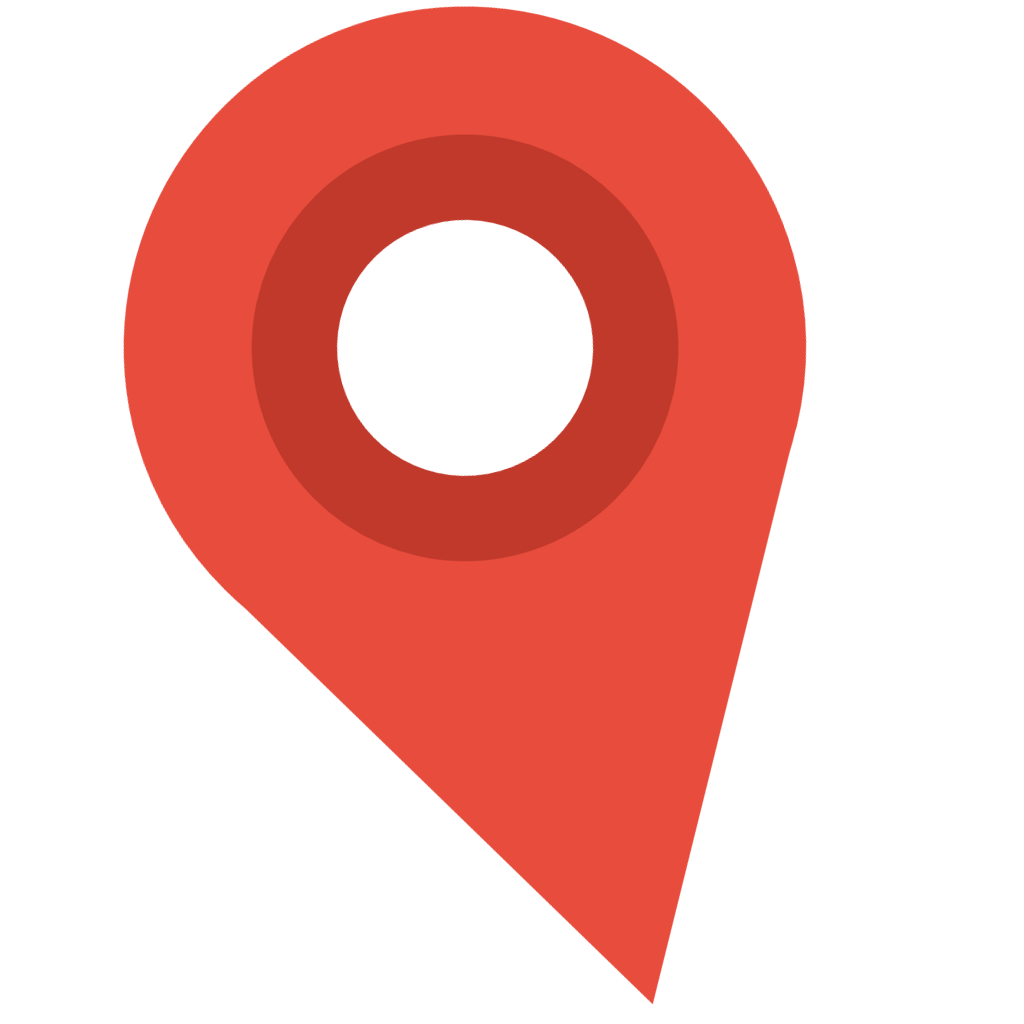
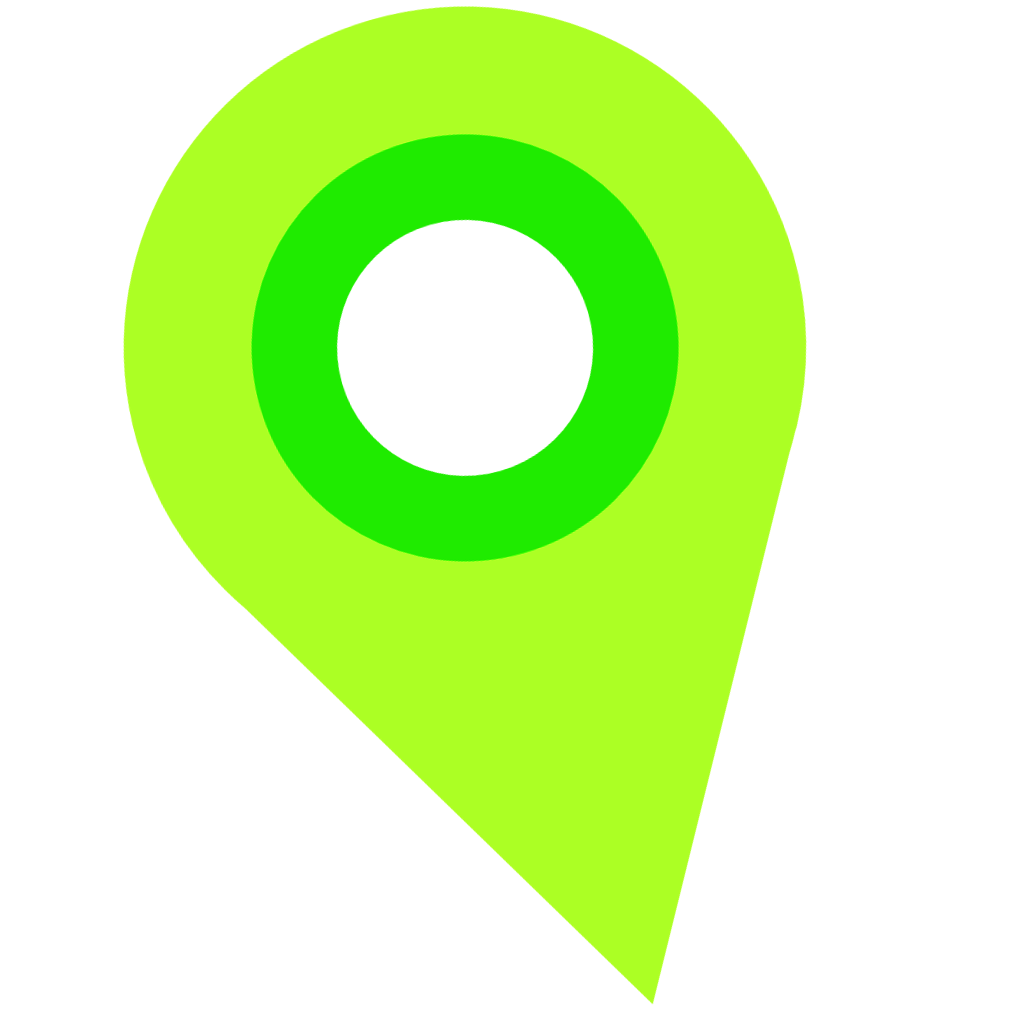
Add not full lot indicator on map

diff --git a/src/components/campaign/CampaignInfo.vue b/src/components/campaign/CampaignInfo.vue
@@ -1,7 +1,7 @@
 <template>
    <div>
      <h1>Campaign : {{ campaign.id_campaign }}-{{ campaign.id_malette }} -->  {{ campaign.name }}</h1>
-     <p>Assembled : {{ assemledPourcent }}% Geoloc : {{ geolocPourcent }}% <span v-on:click='calculateCompletPourcent()'>Complet : {{ completPourcent }}%</span></p>
+     <p>Assembled : {{ assemledPourcent }}% Geoloc : {{ geolocPourcent }}% <span v-on:click='calculateCompletPourcent()'>Complet : {{ completPourcent }}</span></p>
    </div>
 </template>
 
@@ -16,7 +16,8 @@ export default {
     return {
       pictureNumber: [],
       canUse: false,
-      lotPicture: []
+      completLot: null,
+      minPic: 6
     }
   },
 
@@ -51,29 +52,29 @@ export default {
       return value
     },
     completPourcent: function () {
-      if (this.lotPicture.length >= this.lots.length) {
-        var completLot = 0
-        for (var i in this.lotPicture) {
-          i = this.lotPicture[i]
-          if (i >= 6) {
-            completLot++
-          }
-        }
-        return Math.round(completLot / this.lots.length * 100)
+      if (this.completLot == null) {
+        return 'Click to compute'
       } else {
-        return 'Click to calculate'
+        return Math.round(this.completLot / this.lots.length * 100) + '%'
       }
     }
   },
   methods: {
     calculateCompletPourcent: function () {
-      this.lotPicture = []
+      this.completLot = 0
       for (var i in this.lots) {
-        i = this.lots[i]
-        ApiManager.getLotPicturesPath(i.pictures_path).then(answer => {
-          this.lotPicture.push(answer.data.length)
-        })
+        this.isComplet(this.lots[i])
       }
+    },
+    isComplet: function (lot) {
+      ApiManager.getLotPicturesPath(lot.pictures_path).then(answer => {
+        if (answer.data.length >= this.minPic) {
+          this.completLot++
+        } else {
+          this.$parent.$refs.map.setIncomplet(lot.id_lot)
+          this.$parent.$refs.lotList.setIncomplet(lot.id_lot)
+        }
+      })
     }
   }
 }

diff --git a/src/components/campaign/LotList.vue b/src/components/campaign/LotList.vue
@@ -2,8 +2,10 @@
    <div>
      <h2>Lot list :</h2>
      <ul>
-       <li v-for="lot in lots" v-bind:class="classToUse(lot)" v-bind:key="lot.id_lot">{{lot.id_lot}}
-         <router-link v-if="lot.tile.id_tile !== null" :to="'/viewer/' + lot.tile.id_tile + '/' + lot.id_malette">See</router-link></li>
+       <li v-for="lot in lots" v-bind:class="classToUse(lot)" v-bind:ref="lot.id_lot" v-bind:key="lot.id_lot">{{lot.id_lot}}
+         <router-link v-if="lot.tile.id_tile !== null" :to="'/viewer/' + lot.tile.id_tile + '/' + lot.id_malette">See pano</router-link>
+         <span v-on:click="clicked(lot)">See</span>
+       </li>
      </ul>
    </div>
 </template>
@@ -21,6 +23,12 @@ export default {
         return 'bad'
       }
       return 'good'
+    },
+    setIncomplet: function (id) {
+      this.$refs[id][0].className = 'uncomplet'
+    },
+    clicked: function (lot) {
+      this.$parent.$refs.lotInfo.setLot(lot)
     }
   }
 }
@@ -28,9 +36,12 @@ export default {
 
 <style>
 .bad{
-  background-color: red;
+  background-color: orange;
 }
 .good{
   background-color: green;
+}
+.uncomplet{
+  background-color: red;
 }
 </style>

diff --git a/src/components/campaign/MapCampaign.vue b/src/components/campaign/MapCampaign.vue
@@ -2,7 +2,7 @@
   <div>
     <l-map ref='map' :zoom='zoom' :center='center'>
       <l-tile-layer :url='url' :attribution='attribution'></l-tile-layer>
-      <l-marker v-for='lot in lots' :key='lot.id_lot' :lat-lng='genCord(lot.sensors)' :icon='icon(lot)' v-on:click='clicked(lot)'></l-marker>
+      <l-marker v-for='lot in lots' :ref="lot.id_lot" :key='lot.id_lot' :lat-lng='genCord(lot.sensors)' :icon='icon(lot)' v-on:click='clicked(lot)'></l-marker>
     </l-map>
   </div>
 </template>
@@ -23,7 +23,7 @@ export default {
   },
   data () {
     return {
-      zoom: 13,
+      zoom: 19,
       url: 'http://{s}.tile.osm.org/{z}/{x}/{y}.png',
       attribution: '&copy; <a href="http://osm.org/copyright">OpenStreetMap</a> contributors'
     }
@@ -43,6 +43,9 @@ export default {
         icon.options.iconUrl = require('@/assets/marker_assembled.png')
       }
       return icon
+    },
+    setIncomplet (id) {
+      this.$refs[id][0].icon = L.icon({iconUrl: require('@/assets/marker_not_full.png'), iconSize: [40, 40], iconAnchor: [20, 20]})
     }
   },
   computed: {

diff --git a/src/components/campaign/Campaign.vue b/src/components/campaign/Campaign.vue
@@ -2,9 +2,9 @@
    <div>
      <CampaignInfo v-bind:lots="lots" v-bind:campaign="campaign"></CampaignInfo>
      <div class="column">
-       <LotList style="width: 10%" v-bind:lots="lots"></LotList>
+       <LotList ref="lotList" style="width: 10%" v-bind:lots="lots"></LotList>
        <div class="row" style="width: 100%">
-         <MapCampaign style="width: 100%; height: 500px;" v-bind:lots="lots"></MapCampaign>
+         <MapCampaign ref="map" style="width: 100%; height: 500px;" v-bind:lots="lots"></MapCampaign>
          <LotInfo ref="lotInfo"></LotInfo>
        </div>
      </div>
